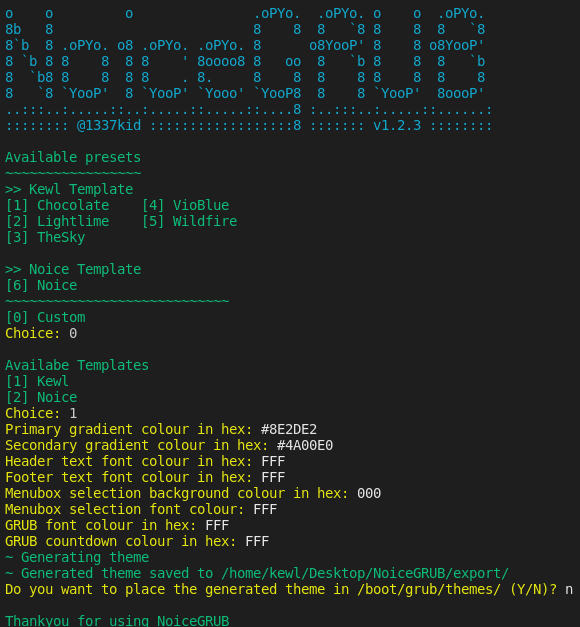
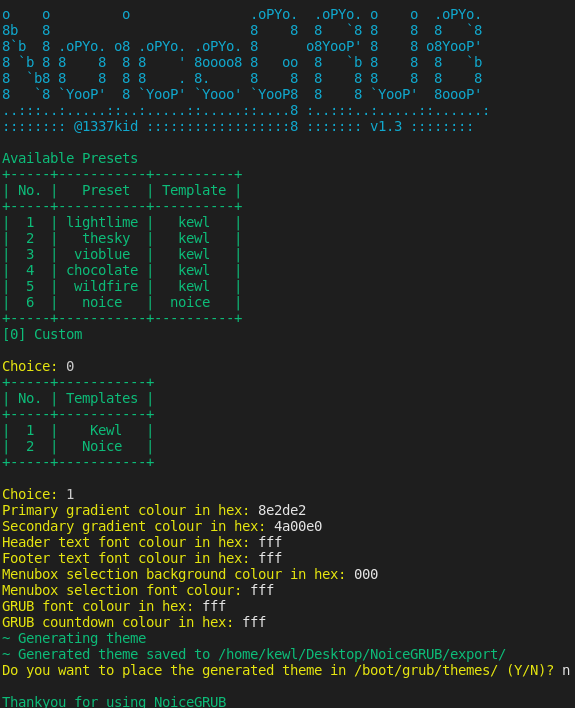
v1.3

Changed region(s): [[0.0, 0.0, 1.0, 1.0], [0.207, 0.0, 0.2365, 0.0303]]

diff --git a/NoiceGRUB.py b/NoiceGRUB.py
@@ -1,21 +1,33 @@
 from core.main import generate_theme,check_colour_code
 from colorama import Fore, Style
-import os
+from prettytable import PrettyTable
 from core.msgs import *
+import os,toml
 
 print(Fore.CYAN + banner + Style.RESET_ALL)
-print(Fore.GREEN + menulist + Style.RESET_ALL)
+#======= Preset Table
+files=os.listdir('presets')
+table = PrettyTable(['No.','Preset', 'Template'])
+presets=[{i.split('.')[0]:toml.load(open(f'presets/{i}'))['template']} for i in files]
+for i in presets:
+    preset=list(i.keys())[0]
+    table.add_row([presets.index(i)+1,preset,i[preset]])
+print(Fore.GREEN +'\nAvailable Presets\n', table ,'\n[0] Custom\n'+Style.RESET_ALL,sep='')
+#=======
 choice=input(Fore.YELLOW+'Choice: '+Style.RESET_ALL)
 if choice not in '0123456':
     print(Fore.RED + 'Invalid choice')
     exit()
 if choice=='0':
-    print(Fore.GREEN + template_menu + Style.RESET_ALL)
-    template=input(Fore.YELLOW + 'Choice: ' + Style.RESET_ALL)
+    #======= Template Table
+    table = PrettyTable(['No.','Templates'])
+    table.add_rows([[1,'Kewl'],[2,'Noice']])
+    print(Fore.GREEN , table , Style.RESET_ALL,sep='')
+    template=input(Fore.YELLOW + '\nChoice: ' + Style.RESET_ALL)
+    #=======
     if template not in '12':
         print(Fore.RED + 'Invalid choice')
         exit()
-    #=================
     data=[]
     for i in range(8):
         colour=input(Fore.YELLOW + input_msgs[i] + Fore.WHITE)
@@ -38,8 +50,7 @@ if choice=='0':
             extra[i]=temp
         generate_theme(False,['noice',background_conf,theme_text_conf,extra])
 else:
-    options={'1':'chocolate','2':'lightlime','3':'thesky','4':'vioblue','5':'wildfire','6':'noice'}
-    generate_theme(options[choice])
+    generate_theme(list(presets[int(choice)-1].keys())[0])
 install_theme=input(Fore.YELLOW + 'Do you want to place the generated theme in /boot/grub/themes/ (Y/N)? ' + Fore.WHITE).lower()
 if install_theme=='y':
     print('\n'+Fore.CYAN)

diff --git a/core/msgs.py b/core/msgs.py
@@ -17,22 +17,4 @@ o    o         o               .oPYo.  .oPYo. o    o  .oPYo.
 8  `b8 8    8  8 8    . 8.     8    8  8    8 8    8  8    8 
 8   `8 `YooP'  8 `YooP' `Yooo' `YooP8  8    8 `YooP'  8oooP' 
 ..:::..:.....::..:.....::.....::....8 :..:::..:.....::......:
-:::::::: @1337kid ::::::::::::::::::8 ::::::: v1.2.3 ::::::::'''
-
-menulist = '''
-Available presets
-~~~~~~~~~~~~~~~~~
->> Kewl Template
-[1] Chocolate	 [4] VioBlue
-[2] Lightlime    [5] Wildfire
-[3] TheSky
-
->> Noice Template
-[6] Noice
-~~~~~~~~~~~~~~~~~~~~~~~~~~~~
-[0] Custom'''
-
-template_menu = '''
-Availabe Templates
-[1] Kewl
-[2] Noice'''
+:::::::: @1337kid ::::::::::::::::::8 ::::::: v1.3 ::::::::'''
